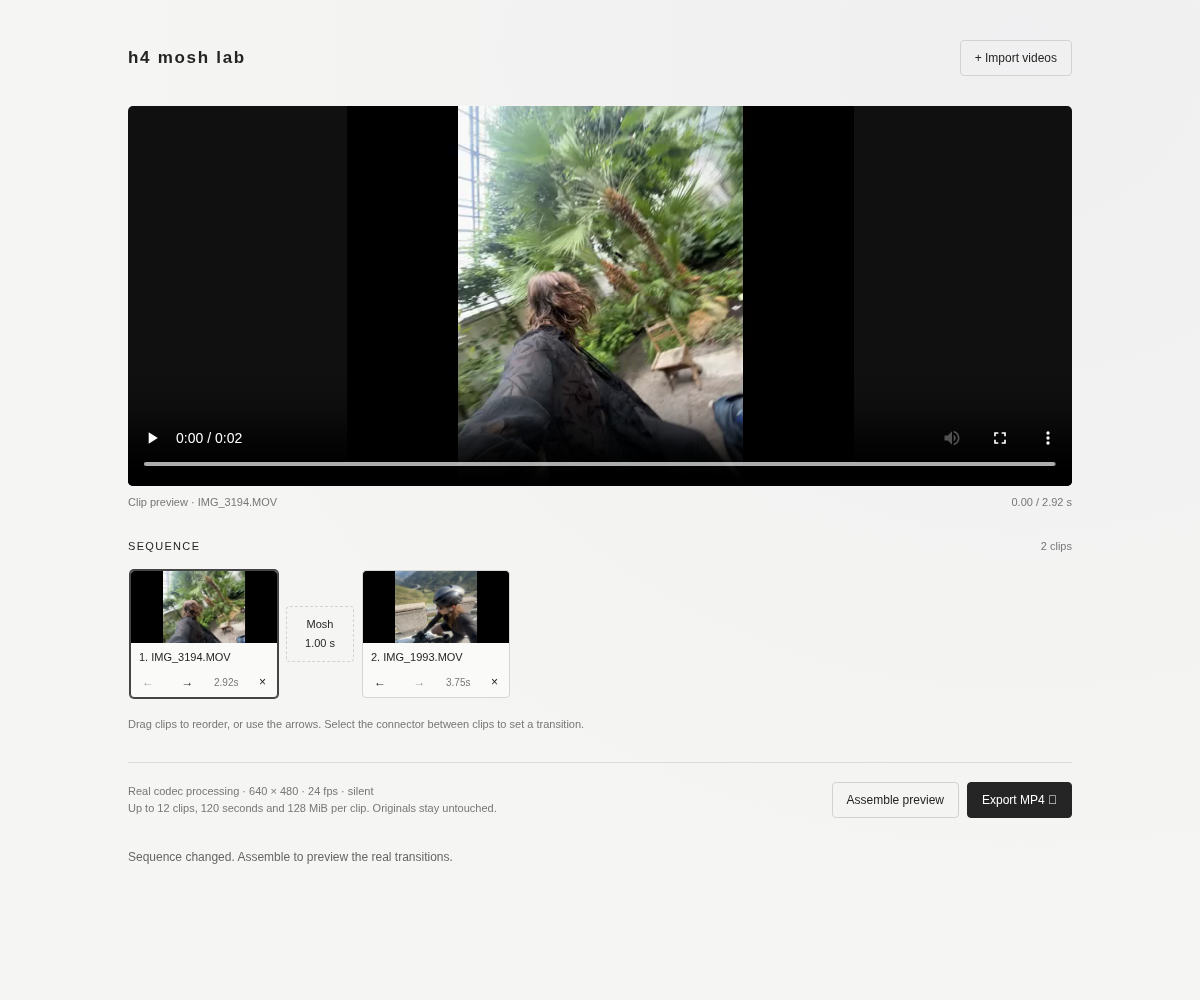
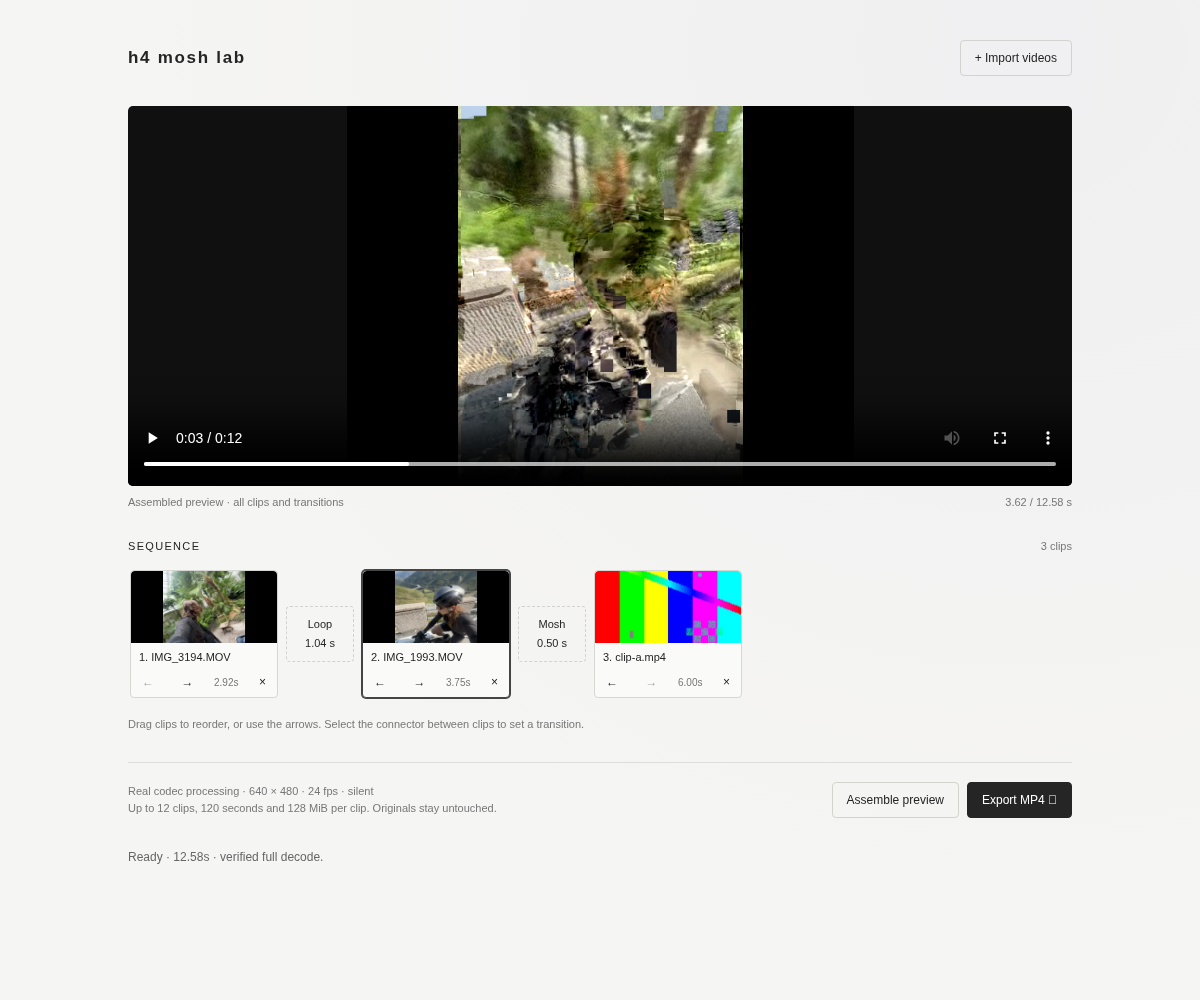
Keep one MP4 export control and record the future H4 cursor design

diff --git a/web/style.css b/web/style.css
@@ -1,4 +1,4 @@
-:root{font-family:Arial,Helvetica,sans-serif;color:#242424;background:#f5f5f3;font-size:14px;font-synthesis:none}*{box-sizing:border-box}body{margin:0;min-height:100vh;background:radial-gradient(ellipse at 85% 5%,#e9e7ee66,transparent 65%)}main{max-width:1000px;margin:0 auto;padding:40px 28px}header,.section-label,footer,.preview-meta,.actions{display:flex;align-items:center;justify-content:space-between;gap:16px}header{margin-bottom:30px}h1{font-size:17px;letter-spacing:.1em;font-weight:600;margin:0}h1 span{color:#858581;font-size:12px;letter-spacing:.04em;font-weight:400}header p{font-size:12px;color:#777;margin:9px 0 0}button,.button,a{color:inherit}button,.button{font:inherit;font-size:12px;background:transparent;border:1px solid #d2d2ce;border-radius:4px;padding:10px 14px;cursor:pointer;white-space:nowrap}button:hover,.button:hover{border-color:#777;background:#ffffff66}button:disabled{opacity:.4;cursor:wait}.button input{position:absolute;width:1px;height:1px;opacity:0}.button:focus-within,button:focus-visible,a:focus-visible{outline:2px solid #64647a;outline-offset:3px}.primary{background:#252525;color:#fff;border-color:#252525}.primary:hover{background:#444;color:#fff}.viewer{height:380px;max-height:50vh;background:#101010;position:relative;border-radius:5px;overflow:hidden;display:grid;place-items:center}.viewer video{height:100%;width:100%;min-height:0;object-fit:contain}video:not([src]){visibility:hidden}#empty{position:absolute;text-align:center;color:#b5b5b5;pointer-events:none;font-size:16px}small{display:block;color:#777;font-size:12px;margin-top:10px}.preview-meta{font-size:11px;color:#777;margin:10px 0 32px;font-variant-numeric:tabular-nums}.sequence{padding-bottom:20px;border-bottom:1px solid #ddd}h2{font-size:11px;text-transform:uppercase;letter-spacing:.12em;font-weight:500;margin:0}.section-label span{font-size:11px;color:#777}#timeline{display:flex;align-items:center;gap:8px;overflow-x:auto;padding:18px 2px 10px;min-height:140px}.clip{flex:0 0 148px;border:1px solid #d6d6d2;border-radius:4px;overflow:hidden;background:#fafaf8}.clip.active{border-color:#454545;box-shadow:0 0 0 1px #454545}.clip-select{width:100%;padding:0;border:none;text-align:left;display:block;overflow:hidden}.clip-select img{width:100%;height:72px;object-fit:cover;display:block;background:#151515}.clip-select span{padding:8px;display:block;white-space:nowrap;overflow:hidden;text-overflow:ellipsis;font-size:11px}.clip-controls{display:flex;justify-content:space-between;align-items:center;padding:0 4px 4px}.clip-controls button{border:0;padding:4px 7px;font-size:12px}.clip-controls small{margin:0;font-size:10px}.connector{flex:0 0 auto;display:grid;justify-items:center;gap:4px;min-width:68px;padding:10px 12px;font-size:11px;border-style:dashed;line-height:1.35}.connector span{display:block;white-space:nowrap}.hint,.limits{font-size:11px;color:#777;line-height:1.6}.hint{margin:8px 0}.limits{margin:20px 0}footer{flex-wrap:wrap}.actions{gap:8px}#status{font-size:12px;color:#666;margin-top:12px}progress{width:100%;height:5px;accent-color:#555;margin-top:12px}#error{color:#9f3030;font-size:12px;line-height:1.6}#download{display:inline-block;font-size:12px;margin-top:14px}[hidden]{display:none!important}dialog{border:1px solid #d4d4d0;border-radius:8px;padding:22px;width:min(400px,calc(100% - 32px));background:#f8f8f6;color:#242424}dialog::backdrop{background:#0005}dialog form>label,dialog div>label{display:block;font-size:12px;margin-top:20px}select{display:block;width:100%;margin-top:8px;padding:10px;background:transparent;border:1px solid #ccc;border-radius:3px;color:inherit}input[type=range]{width:100%;accent-color:#555;margin:12px 0}output{float:right;font-variant-numeric:tabular-nums}#transition-pair{font-size:12px;overflow-wrap:anywhere}#preview-transition{margin-top:20px;width:100%}@media(max-width:600px){main{padding:24px 16px}header{align-items:flex-start}h1 span{display:block;margin-top:6px}.viewer{height:300px}.preview-meta{margin-bottom:24px}footer{gap:0}.actions{width:100%}.actions button{flex:1}.limits{font-size:10px}}@media(prefers-reduced-motion:reduce){*{scroll-behavior:auto!important}}
+:root{font-family:Arial,Helvetica,sans-serif;color:#242424;background:#f5f5f3;font-size:14px;font-synthesis:none}*{box-sizing:border-box}body{margin:0;min-height:100vh;background:radial-gradient(ellipse at 85% 5%,#e9e7ee66,transparent 65%)}main{max-width:1000px;margin:0 auto;padding:40px 28px}header,.section-label,footer,.preview-meta,.actions{display:flex;align-items:center;justify-content:space-between;gap:16px}header{margin-bottom:30px}h1{font-size:17px;letter-spacing:.1em;font-weight:600;margin:0}h1 span{color:#858581;font-size:12px;letter-spacing:.04em;font-weight:400}header p{font-size:12px;color:#777;margin:9px 0 0}button,.button,a{color:inherit}button,.button{font:inherit;font-size:12px;background:transparent;border:1px solid #d2d2ce;border-radius:4px;padding:10px 14px;cursor:pointer;white-space:nowrap}button:hover,.button:hover{border-color:#777;background:#ffffff66}button:disabled{opacity:.4;cursor:wait}.button input{position:absolute;width:1px;height:1px;opacity:0}.button:focus-within,button:focus-visible,a:focus-visible{outline:2px solid #64647a;outline-offset:3px}.primary{background:#252525;color:#fff;border-color:#252525}.primary:hover{background:#444;color:#fff}.viewer{height:380px;max-height:50vh;background:#101010;position:relative;border-radius:5px;overflow:hidden;display:grid;place-items:center}.viewer video{height:100%;width:100%;min-height:0;object-fit:contain}video:not([src]){visibility:hidden}#empty{position:absolute;text-align:center;color:#b5b5b5;pointer-events:none;font-size:16px}small{display:block;color:#777;font-size:12px;margin-top:10px}.preview-meta{font-size:11px;color:#777;margin:10px 0 32px;font-variant-numeric:tabular-nums}.sequence{padding-bottom:20px;border-bottom:1px solid #ddd}h2{font-size:11px;text-transform:uppercase;letter-spacing:.12em;font-weight:500;margin:0}.section-label span{font-size:11px;color:#777}#timeline{display:flex;align-items:center;gap:8px;overflow-x:auto;padding:18px 2px 10px;min-height:140px}.clip{flex:0 0 148px;border:1px solid #d6d6d2;border-radius:4px;overflow:hidden;background:#fafaf8}.clip.active{border-color:#454545;box-shadow:0 0 0 1px #454545}.clip-select{width:100%;padding:0;border:none;text-align:left;display:block;overflow:hidden}.clip-select img{width:100%;height:72px;object-fit:cover;display:block;background:#151515}.clip-select span{padding:8px;display:block;white-space:nowrap;overflow:hidden;text-overflow:ellipsis;font-size:11px}.clip-controls{display:flex;justify-content:space-between;align-items:center;padding:0 4px 4px}.clip-controls button{border:0;padding:4px 7px;font-size:12px}.clip-controls small{margin:0;font-size:10px}.connector{flex:0 0 auto;display:grid;justify-items:center;gap:4px;min-width:68px;padding:10px 12px;font-size:11px;border-style:dashed;line-height:1.35}.connector span{display:block;white-space:nowrap}.hint,.limits{font-size:11px;color:#777;line-height:1.6}.hint{margin:8px 0}.limits{margin:20px 0}footer{flex-wrap:wrap}.actions{gap:8px}#status{font-size:12px;color:#666;margin-top:12px}progress{width:100%;height:5px;accent-color:#555;margin-top:12px}#error{color:#9f3030;font-size:12px;line-height:1.6}[hidden]{display:none!important}dialog{border:1px solid #d4d4d0;border-radius:8px;padding:22px;width:min(400px,calc(100% - 32px));background:#f8f8f6;color:#242424}dialog::backdrop{background:#0005}dialog form>label,dialog div>label{display:block;font-size:12px;margin-top:20px}select{display:block;width:100%;margin-top:8px;padding:10px;background:transparent;border:1px solid #ccc;border-radius:3px;color:inherit}input[type=range]{width:100%;accent-color:#555;margin:12px 0}output{float:right;font-variant-numeric:tabular-nums}#transition-pair{font-size:12px;overflow-wrap:anywhere}#preview-transition{margin-top:20px;width:100%}@media(max-width:600px){main{padding:24px 16px}header{align-items:flex-start}h1 span{display:block;margin-top:6px}.viewer{height:300px}.preview-meta{margin-bottom:24px}footer{gap:0}.actions{width:100%}.actions button{flex:1}.limits{font-size:10px}}@media(prefers-reduced-motion:reduce){*{scroll-behavior:auto!important}}
 
 #motion-control{margin-top:20px;border-top:1px solid #ddd;padding-top:14px}#motion-control summary{font-size:12px;cursor:pointer}#motion-control label{display:block;font-size:12px;margin-top:16px}#motion-preview{display:block;width:100%;height:150px;object-fit:contain;background:#151515;border-radius:3px}#watch-motion{width:100%}
 

diff --git a/web/index.html b/web/index.html
@@ -8,7 +8,7 @@
 <div class="preview-meta"><span id="preview-label">No video selected</span><span id="time">0.00 / 0.00 s</span></div>
 <section class="sequence" aria-labelledby="sequence-title"><div class="section-label"><h2 id="sequence-title">Sequence</h2><span id="count">0 clips</span></div><div id="timeline" aria-label="Clip timeline"></div><p class="hint">Drag clips to reorder, or use the arrows. Select the connector between clips to set a transition.</p></section>
 <footer><p class="limits">Real codec processing · 640 × 480 · 24 fps · silent<br>Up to 12 clips, 120 seconds and 128 MiB per clip. Originals stay untouched.</p><div class="actions"><button id="assemble" disabled>Assemble preview</button><button id="export" class="primary" disabled>Export MP4 ↗</button></div></footer>
-<div id="status" role="status" aria-live="polite">Ready to import.</div><progress id="progress" max="1" value="0" hidden></progress><p id="error" role="alert" hidden></p><a id="download" hidden>Download assembled MP4</a>
+<div id="status" role="status" aria-live="polite">Ready to import.</div><progress id="progress" max="1" value="0" hidden></progress><p id="error" role="alert" hidden></p>
 </main>
 <dialog id="transition-dialog"><form method="dialog"><div class="section-label"><h2>Transition</h2><button aria-label="Close settings" value="close">×</button></div><p id="transition-pair"></p><label>Method<select id="effect"><option value="cut">Cut</option><option value="classic-mosh">Classic Mosh</option><option value="frame-melt">Frame Melt</option><option value="motion-loop">Motion Loop</option></select></label><p id="method-note" class="hint"></p><div id="duration-control"><label for="duration">Duration <output id="duration-value"></output></label><input id="duration" type="range" min="1" max="144" step="1"><p class="hint" id="duration-note"></p></div><div id="ending-control"><label for="ending">Effect ending<select id="ending"><option value="flow">Continue motion · no hard reset</option><option value="reset">Restore clear image</option></select></label></div><div id="repeat-control"><label for="repeat">P-frame repetitions <output id="repeat-value"></output></label><input id="repeat" type="range" min="2" max="12" step="1"></div><div id="loop-control"><label for="loop-length">Loop length <output id="loop-value"></output></label><input id="loop-length" type="range" min="2" max="48" step="1"><p class="hint">A short motion sequence is repeated, pulling the previous image further each time.</p></div><details id="motion-control"><summary>Choose motion</summary><label for="motion-start">Motion starts at <output id="motion-start-value"></output></label><input id="motion-start" type="range" min="0" step="1"><video id="motion-preview" muted playsinline preload="metadata" aria-label="Incoming clip motion source"></video><p class="hint" id="motion-window"></p><button id="watch-motion" type="button">Watch source motion</button><p class="hint">This shows the original motion source. Use Preview this transition to see the processed effect.</p></details><button id="preview-transition" type="button">Preview this transition</button></form></dialog>
 </body></html>

diff --git a/web/app.js b/web/app.js
@@ -22,7 +22,7 @@ function setting(index) {
 function invalidate() {
   try { sessionStorage.removeItem('h4-job'); } catch {}
   try { sessionStorage.setItem('h4-sequence', JSON.stringify({order: state.clips.map(c => c.id), settings: [...state.settings]})); } catch {}
-  state.ready = null; state.previewEnd = null; state.sequencePosition = 0; $('download').hidden = true;
+  state.ready = null; state.previewEnd = null; state.sequencePosition = 0;
   const clip = state.clips.find(c => c.id === state.active);
   if (clip) source(clip.preview, `Clip preview · ${clip.name}`);
   else { player.pause(); player.removeAttribute('src'); player.load(); $('empty').hidden = false; $('preview-label').textContent = 'No video selected'; }
@@ -195,7 +195,6 @@ function showResult(job) {
   const changed = player.getAttribute('src') !== job.url;
   source(job.url, 'Assembled preview · all clips and transitions');
   if (changed) seek(state.sequencePosition, null, false);
-  const download = $('download'); download.href = `${job.url}?download=1`; download.download = 'h4-mosh-lab.mp4'; download.hidden = false;
 }
 function seek(time, end, autoplay = true) {
   if (state.pendingSeek) player.removeEventListener('loadedmetadata', state.pendingSeek);
@@ -229,7 +228,10 @@ async function assemble(download = false, transitionIndex = null) {
       const boundary = state.ready.result.boundaries[transitionIndex];
       const start = boundary.frame / 24; seek(Math.max(0, start - .75), start + boundary.duration + .75);
     }
-    if (download) $('download').click();
+    if (download) {
+      const link = document.createElement('a'); link.href = `${state.ready.url}?download=1`; link.download = 'h4-mosh-lab.mp4';
+      link.hidden = true; document.body.append(link); link.click(); link.remove();
+    }
   } catch (e) { error(e.message); status('Processing failed. Adjust the sequence or retry.'); }
   finally { busy(false); $('progress').hidden = true; }
 }

diff --git a/tests/browser_smoke.py b/tests/browser_smoke.py
@@ -120,6 +120,8 @@ with sync_playwright() as p:
         page.locator('#export').click()
     event.value.save_as(artifacts/'sequence.mp4')
     assert (artifacts/'sequence.mp4').stat().st_size > 1000
+    expect(page.get_by_text('Download assembled MP4', exact=True)).to_have_count(0)
+    expect(page.locator('a[download]')).to_have_count(0)
     with urllib.request.urlopen(base+url) as response:
         assert response.read() == (artifacts/'sequence.mp4').read_bytes()
     page.locator('.connector').first.click()
@@ -129,7 +131,7 @@ with sync_playwright() as p:
     page.locator('.connector').first.click()
     page.locator('#duration').fill('25')
     page.get_by_role('button', name='Close settings').click()
-    expect(page.locator('#download')).to_be_hidden()
+    expect(page.locator('#download')).to_have_count(0)
     page.route('**/api/jobs', lambda route: route.fulfill(status=503, content_type='application/json', body='{"error":"Test processing failure"}'))
     page.locator('#assemble').click()
     expect(page.locator('#error')).to_have_text('Test processing failure')

diff --git a/EDITOR.md b/EDITOR.md
@@ -55,9 +55,10 @@ The cloud run was validated on Linux/Chromium; Mac/Safari has not been tested.
    video controls and HTTP byte ranges. Active cards follow assembled playback.
 5. Preview a transition from its dialog to play the corresponding region of that
    same assembled film. An unchanged sequence reuses the existing render. Clip/order
-   or transition changes invalidate it and hide the stale download link.
+   or transition changes invalidate it and require a fresh render before the next export.
 6. Export MP4 renders the current sequence if necessary, then downloads exactly the
-   same bytes as its assembled preview. Failures show an error and reenable retry.
+   same bytes as its assembled preview. Export MP4 is the only download control;
+   the duplicate download link has been removed. Failures show an error and reenable retry.
 
 Timeline order/settings survive page refresh in this browser tab. Imported clips
 and a running/completed render reconnect to the same live server session. This is

diff --git a/AGENTS.md b/AGENTS.md
@@ -1,0 +1,13 @@
+# Project preferences to carry forward
+
+## Future design work: branded H4 cursor
+
+When planning the next UI/design refinement, proactively remind the user of this
+requested feature. Keep it deferred until that design work is requested.
+
+- Use the branded H4 mouse cursor.
+- At rest, rotate it approximately 15 degrees to the left (-15deg).
+- When hovering over an enabled clickable element, rotate it approximately
+  15 degrees to the right (+15deg).
+- The angle change signals that the element can be clicked. Do not invent the
+  cursor artwork; use the user's H4 cursor asset when implementing this later.
